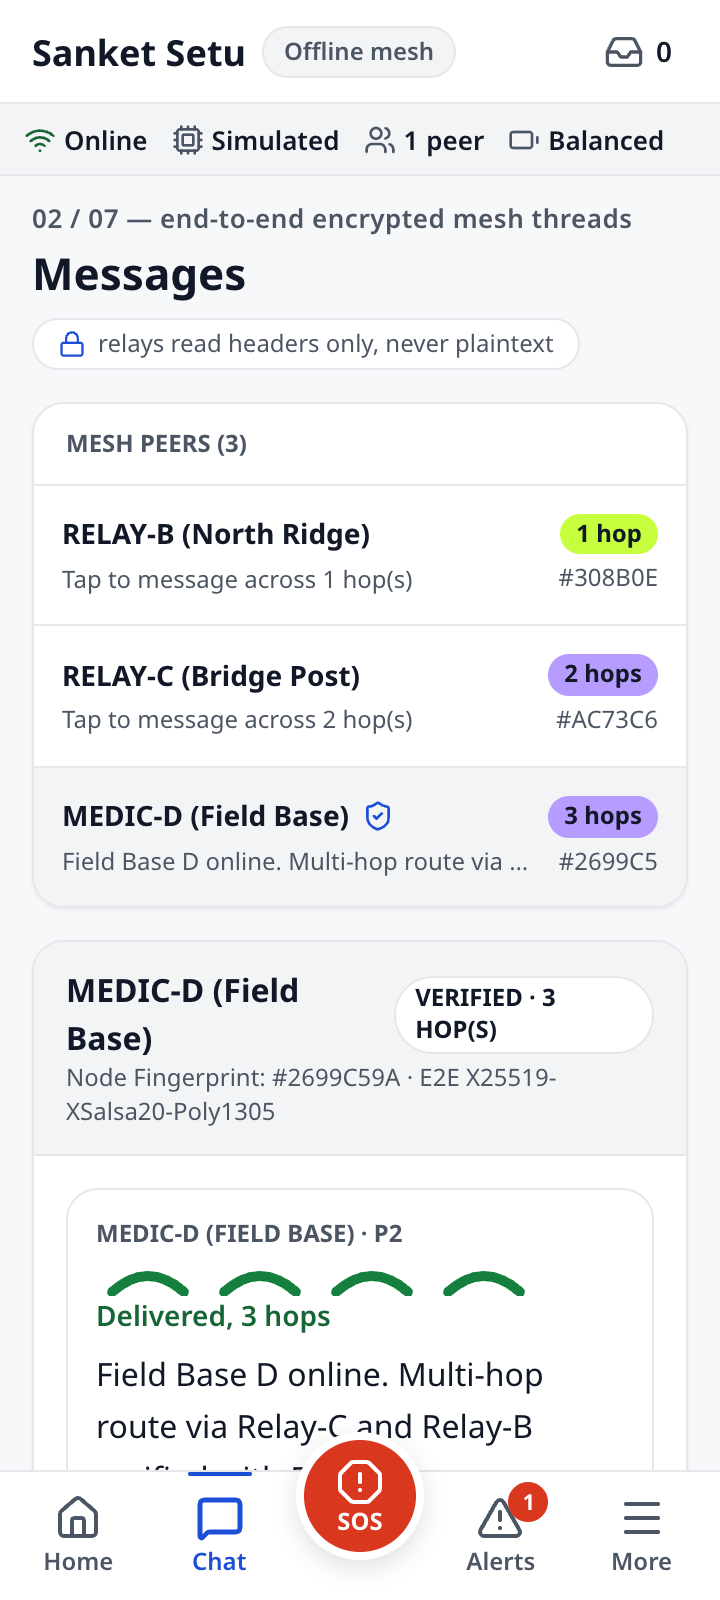
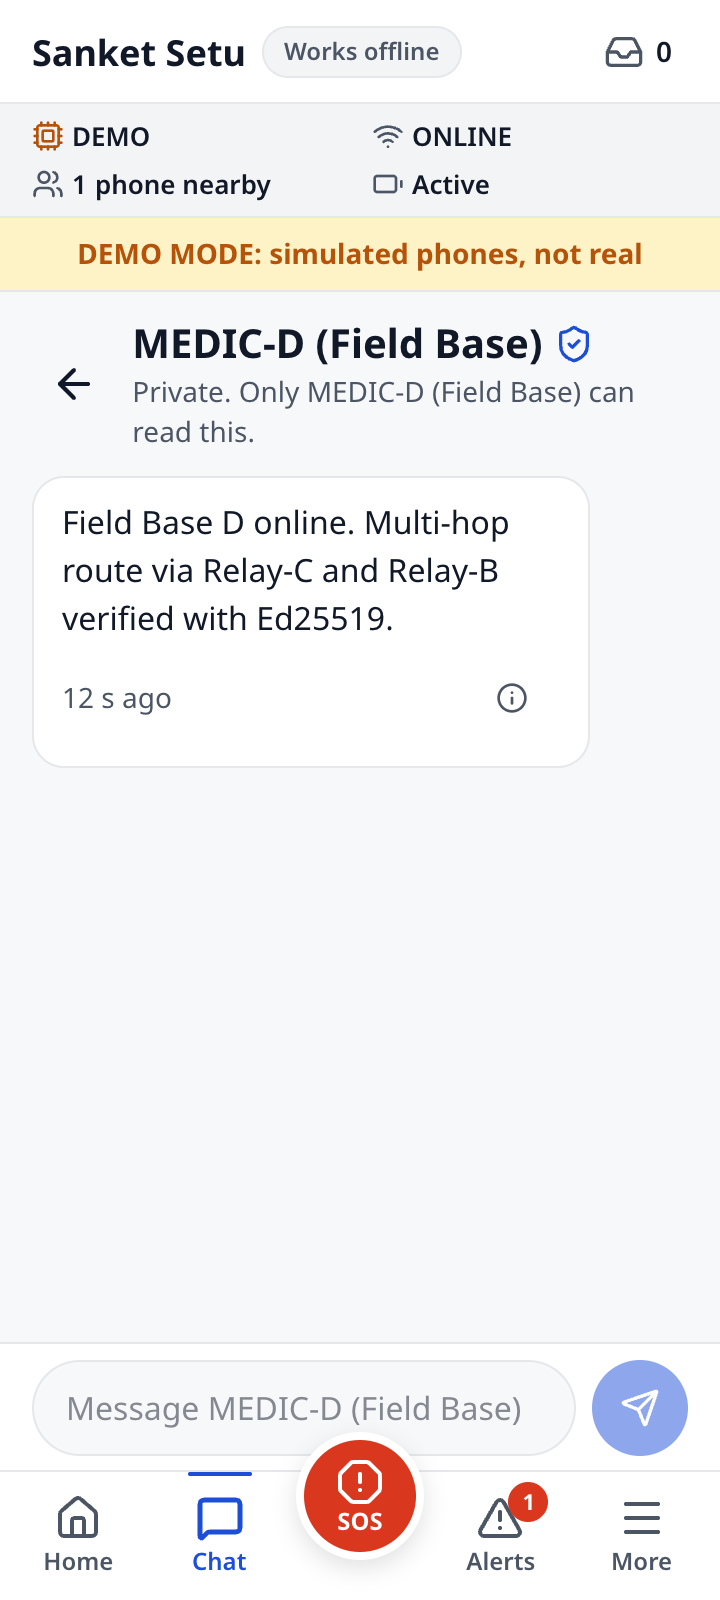
docs: exact 10-minute two-phone test, adb install and logcat commands, Real vs Demo, refreshed screenshots

diff --git a/SanketSetu/docs/HARDWARE_TEST_CHECKLIST.md b/SanketSetu/docs/HARDWARE_TEST_CHECKLIST.md
@@ -17,42 +17,44 @@ cannot substitute for this.
 - [ ] Runtime permissions granted on first launch: Nearby devices / Bluetooth, Location
       (if offered), Notifications.
 
-## 0. 10-minute minimum smoke test (do this first — if it fails, stop and fix before anything else)
+## 0. The 10-minute two-phone test (do this first; if it fails, stop and send the diagnostics)
 
-This is the smallest test that proves the core claim ("two phones exchange a real message over
-real radio, no network") is actually true. Everything after this section is deeper verification;
-this section alone is the bar for "it works at all."
+This is the smallest test that proves the core claim: two phones exchange a real message, a real
+SOS and a real acknowledgement over real radio, with no network. Everything below it is deeper
+verification. Nothing here is verified until a human ticks it.
 
-- [ ] **(0-2 min)** Build the debug APK and install on two phones (exact commands at the end of
-      `README.md`'s build section — `./gradlew installDebug` with each phone connected via USB
-      debugging, one at a time, or `adb install -r app-debug.apk` for an already-built APK).
-- [ ] **(2-3 min)** On both phones: open the app, complete onboarding, tap "grant access" on the
-      permissions card, and grant every system permission dialog that appears.
-- [ ] **(3-4 min)** Put both phones in Airplane Mode, then manually turn Bluetooth and Wi-Fi back
-      on (proves no cellular/internet path is involved).
-- [ ] **(4-6 min)** Bring the phones within a few meters of each other. Watch the top bar's peer
-      badge on both — it must flip from `SIMULATED` to `REAL RADIO` once they connect to each
-      other (not just to the seeded demo peers). If it never flips, stop here — the two phones
-      never actually linked over Nearby Connections; check Logcat for `NearbyMeshPlugin` /
-      `SanketRelayCore` errors before continuing to anything below.
-- [ ] **(6-8 min)** From phone A, send a direct message to phone B (pick B from the peer list on
-      the Messages screen — may require scanning B's QR/trust code first if not already known).
-- [ ] **(8-10 min)** Confirm the message appears on phone B, and that phone A's copy of the
-      message shows delivery state **DELIVERED** (not stuck at PENDING or SENT) within a few
-      seconds. Open the packet inspector and confirm `route` shows the real hop between the two
-      real node IDs.
+Phones A and B, both Android 8+ with Google Play services, internet off.
 
-**Result:** PASS / FAIL (circle one) — date tested: __________ — devices used: __________
+- [ ] **1. Install.** Install the debug APK on **both** phones (`adb -s <serial> install -r app/build/outputs/apk/debug/app-debug.apk`, commands in the README).
+- [ ] **2. Permissions.** Open the app on both, finish the three setup steps and **grant every permission** (Nearby devices / Bluetooth, Notifications, Location on Android 12 and older). Set different names, for example "Asha" and "Bala".
+- [ ] **3. Airplane mode.** Switch both phones to airplane mode, then switch **Bluetooth and Wi-Fi back on**.
+- [ ] **4. Radio diagnostics on both.** More > Radio diagnostics. Confirm **Advertising: yes** and **Discovering: yes**, foreground service yes, and every listed permission "granted". If a row shows an error code, press **Copy diagnostics** and keep it.
+- [ ] **5. Connect.** Hold the phones within a few metres. Within about 30 seconds the top strip on both shows **1 phone nearby** and Home says **Connected to 1 phone.** Diagnostics shows **Endpoints connected: 1** with the other phone's name. If not, stop and copy diagnostics from both phones (see "If it fails").
+- [ ] **6. Everyone nearby.** On A: Chat > Everyone nearby, send "hello". It appears on B, labelled with A's name. A's bubble reads **Sent**.
+- [ ] **7. Private message.** On A: Chat > Nearby people > B, send "private test". It appears on B in a private thread. A's bubble moves from Sent to **Delivered** (only after B's signed acknowledgement).
+- [ ] **8. SOS.** On A: Home, **press and hold** the SOS button for 3 seconds. On B: the full-screen SOS card appears with **vibration and sound**, and an Android notification is posted; the SOS is at the top of Alerts.
+- [ ] **9. Acknowledge.** On B: tap **Acknowledge**. A's SOS status card shows **Acknowledged by Bala** and **Reached 1 phone**.
+- [ ] **10. Screen off.** Lock B's screen. On A send another message and another SOS. B still receives it (notification and vibration with the screen off).
+
+**Result:** PASS / FAIL (circle one). Date: __________ Devices and Android versions: __________
+
+### If it fails
+
+On **both** phones: More > Radio diagnostics > **Copy diagnostics**, paste into a file. Also capture
+`adb -s <serial> logcat -d | grep -i SanketMesh` for each phone. The diagnostics screen answers, in order:
+permissions missing (fix and press Restart radio) > Bluetooth or Wi-Fi off > advertising/discovering
+no with an error code > endpoints found but not connected > connected but no payloads > payloads
+received but a drop reason shown under "Last dropped packet".
 
 ## 0b. Added since the first checklist (all UNVERIFIED on real phones)
 
 - [ ] **First run:** splash shows real init steps, onboarding appears once, **Allow permissions** raises the Android dialogs for the API level of the phone (API 31+: Nearby/Bluetooth; API 33+: Nearby Wi-Fi and notifications). Deny them once: setup still completes and the Open settings button works.
 - [ ] **PIN:** set a PIN, force-stop the app, reopen: the PIN screen appears; a wrong PIN is rejected; the right PIN opens the app and the same node id.
 - [ ] **Restart recovery:** with the other phone out of range, send a message and an SOS; force-stop and reopen; bring the other phone in range. The queued message and SOS are re-sent without any tap, and the message reaches DELIVERED.
-- [ ] **SOS repeats until verified ack:** an SOS from phone A keeps appearing at B until B (enrolled as demo responder) acknowledges; an acknowledgement from a non-enrolled phone shows Unverified and A keeps repeating.
+- [ ] **SOS repeats until verified ack:** an SOS from phone A keeps appearing at B until B (enrolled as demo responder) acknowledges; an acknowledgement from a non-enrolled phone shows "Acknowledged by" without a verified badge and A keeps repeating.
 - [ ] **Launch flash:** with the phone in system dark mode, cold start shows a light splash, never a dark flash. (Needs a rebuilt APK: the splash theme was changed without the SDK available to compile it.)
 - [ ] **Release performance:** judge scrolling and the SOS hold ring on a RELEASE build on a mid-range phone, not an emulator.
-- [ ] **Rescuer Locate** is expected to show simulated signal values on real radios (Nearby does not expose RSSI). Confirm it is labelled EXPERIMENTAL and SIMULATED.
+- [ ] **Rescuer Locate** (simulated signal values, Nearby does not expose RSSI) must not appear anywhere in Real mode; it exists only in Demo mode.
 
 ## 1. Basic two-phone pairing and messaging (airplane mode, BT+Wi-Fi on)
 

diff --git a/SanketSetu/README.md b/SanketSetu/README.md
@@ -45,8 +45,10 @@ flowchart LR
 - `src/core/protocol/constants.ts`: every TTL, jitter, window and threshold in one file.
 - `src/mesh`, `src/crypto`, `src/transport`, `src/db`: core logic. An architecture test fails the build if these import UI code.
 - `plugins/nearby-mesh/android`: Kotlin plugin and foreground service.
-- On a phone the engine runs on **both** the real radio and the simulated demo mesh, so the demo
-  works with one device. The status strip says **Real radio** only when a real Nearby peer is connected.
+- **Real vs Demo mode.** The app starts in **Real** mode on a phone: the only transport is the Nearby
+  radio, and peers, messages, alerts and stats come only from real engine events. **Demo** mode (Settings,
+  "Demo", plus the Simulator screen) is the only place simulated phones and fixtures exist, and it shows a
+  permanent amber "DEMO MODE: simulated phones, not real" banner. The status strip always says `REAL RADIO` or `DEMO`.
 
 ## 4. Requirement traceability
 
@@ -136,10 +138,19 @@ export JAVA_HOME="$(brew --prefix openjdk@21)" ANDROID_HOME="$HOME/Library/Andro
 ./gradlew assembleDebug     # android/app/build/outputs/apk/debug/app-debug.apk
 ```
 
+Install on two phones and capture logs (replace the serials from `adb devices`):
+
+```bash
+adb devices
+adb -s <serialA> install -r app/build/outputs/apk/debug/app-debug.apk
+adb -s <serialB> install -r app/build/outputs/apk/debug/app-debug.apk
+adb -s <serialA> logcat -c && adb -s <serialA> logcat | grep -i SanketMesh   # one terminal per phone
+```
+
 Open `SanketSetu/android` (not the repo root) in Android Studio and decline any Gradle upgrade prompt:
 the project is pinned to Gradle 8.14.3 and AGP 8.13. Real mesh behaviour needs two or more physical
 phones; follow [docs/HARDWARE_TEST_CHECKLIST.md](docs/HARDWARE_TEST_CHECKLIST.md) (start with the
-10-minute smoke test).
+10-minute two-phone test).
 
 ### Static demo site
 
@@ -147,7 +158,7 @@ phones; follow [docs/HARDWARE_TEST_CHECKLIST.md](docs/HARDWARE_TEST_CHECKLIST.md
 
 ## 9. Tests
 
-`npm test` runs 28 deterministic tests with `node:test` (no network, no real clock dependence beyond
+`npm test` runs 38 deterministic tests with `node:test` (no network, no real clock dependence beyond
 short waits): signatures, tamper and replay rejection, forged ACKs, TTL, dedup, jitter and
 suppression, priority under flood, rate limiting, 4-node multi-hop, link break and sync, outbox retry
 and restore, sealed GPS, responder certificates, identity vault, geo clustering, benchmark statistics,
@@ -171,9 +182,9 @@ measured on a phone; judge them on a release build, not an emulator.
 - **Signature verification runs on the main thread**, not a Web Worker. Under a packet flood this can cause UI jank.
 - The PIN KDF is an iterated SHA-512 stretch, not a vetted KDF; Android Keystore wrapping is not wired in. Without a PIN, the key sits beside its ciphertext.
 - Only this phone's own messages, SOS alerts and outbox are restored after a restart; received message history is not.
-- RSSI and link quality for real peers are constant placeholders (Nearby Connections does not expose them), so Rescuer Locate is a simulated prototype.
+- RSSI and link quality for real peers are constant placeholders (Nearby Connections does not expose them), so Rescuer Locate exists only in Demo mode, as a simulated prototype.
 - The Responder Authority and its group key are a built-in **DEMO** authority; there is no revocation or key rotation.
-- No Android SDK was available when the last native changes (splash theme) were written, so rebuild before relying on them.
+- Everything about the real radio path (permissions, advertising, discovery, connection, notifications, vibration) is **UNVERIFIED on hardware**: it is covered by integration tests against a fake native bridge and by a successful `assembleDebug`, not by a two-phone run. See the checklist.
 
 ## 12. Screenshots
 
